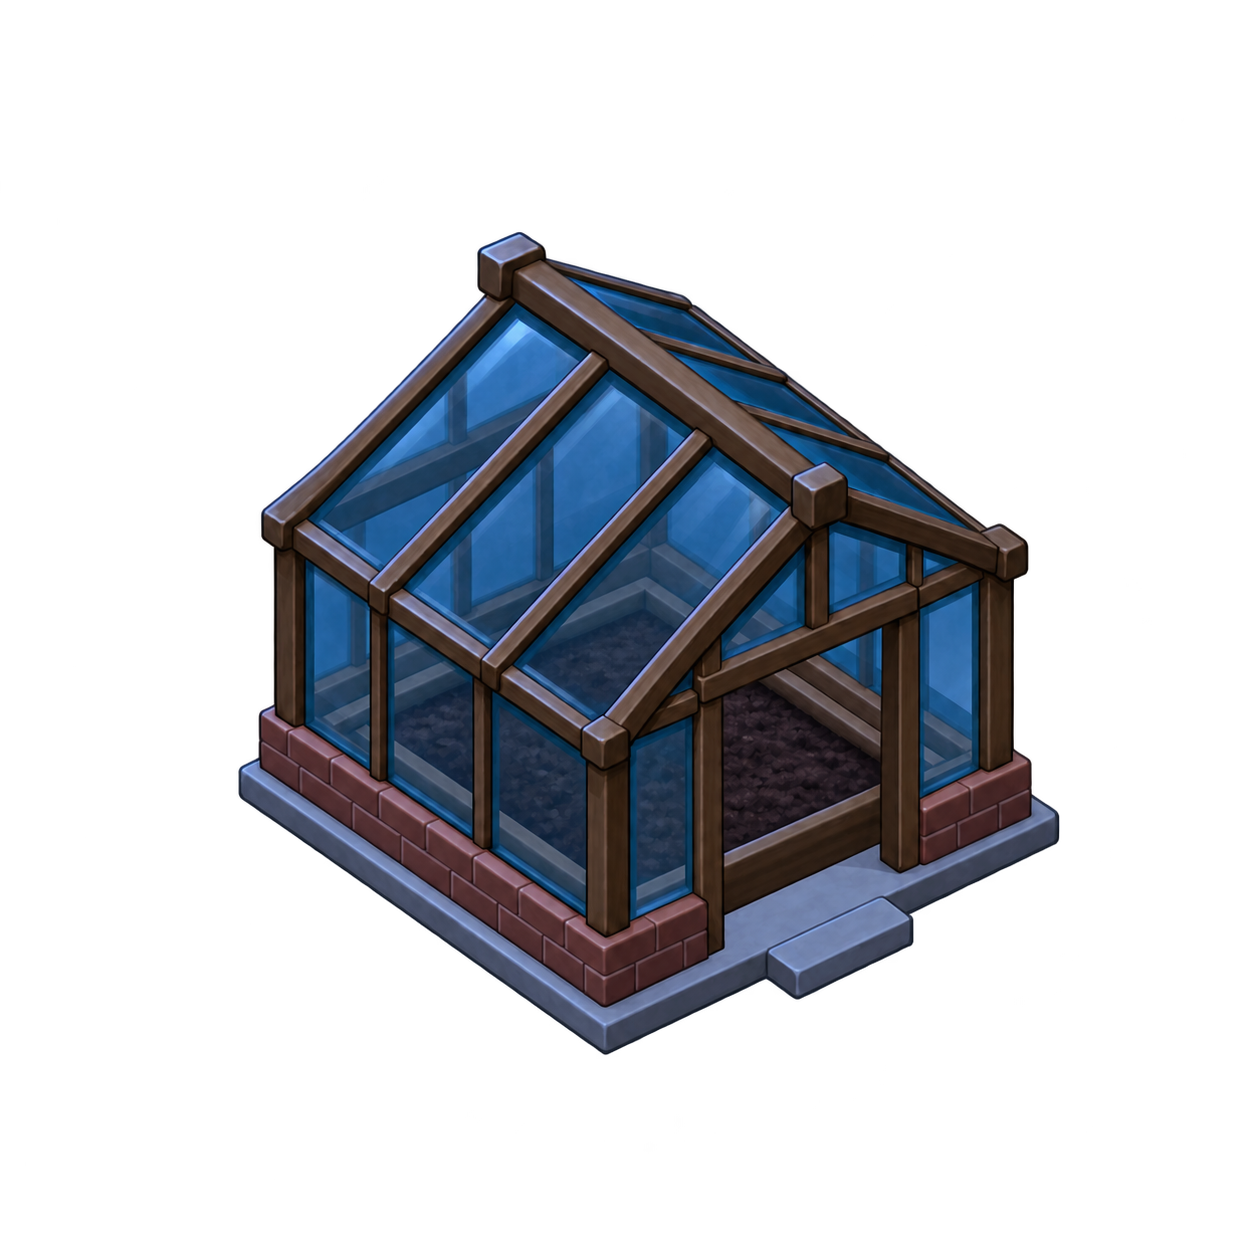
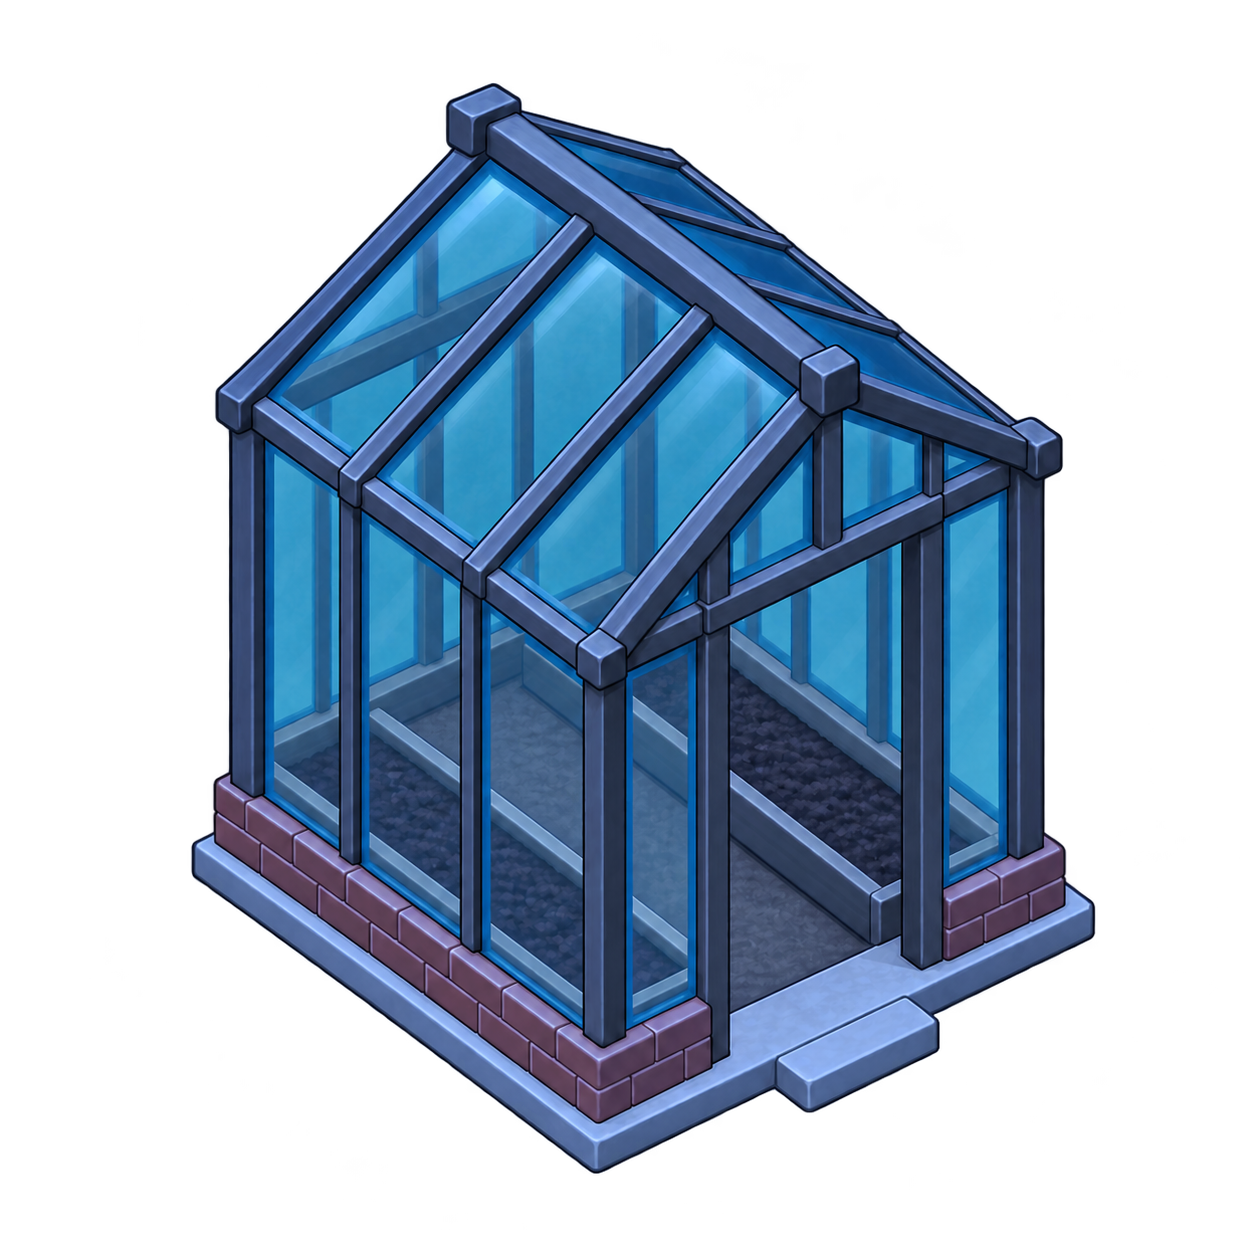
Raise greenhouse walls and plant across the interior beds
Why: the greenhouse looked too squat and crops were clipped into its doorway. Taller matched day/night artwork and glass-aware crop rows keep the aisle clear and plants behind the frame.

diff --git a/web/crop-art.js b/web/crop-art.js
@@ -1,3 +1,4 @@
+import { greenhouseBeds, greenhousePlants, greenhouseGlass, greenhouseDoor } from './greenhouse-layout.js';
 import { preparedFrames, drawPreparedFrame } from './sprite-frames.js';
 import { buildingArt, cameraCalibration } from './building-art.js?v=night-1';
 export const cropTypes = {
@@ -23,18 +24,28 @@ export function drawCrops(ctx,b,x,y,scale=1,night=0) {
   const {vertical,shear}=cameraCalibration(art),c=b.crop;
   const point=(u,v)=>[(u-.5)*w,((v-art.anchor)*vertical+(u-.5)*shear)*w];
   ctx.save();ctx.translate(x,y);ctx.scale(scale,scale);
-  ctx.beginPath();
-  // For the greenhouse, only the open doorway exposes the growing bed.
-  const soil=greenhouse ? [[.518,.58],[.674,.50],[.688,.659],[.518,.749]] : [[.155,.52],[.495,.325],[.837,.52],[.495,.711]];
-  soil.forEach(([u,v],i)=>{const p=point(u,v);if(i)ctx.lineTo(...p);else ctx.moveTo(...p);});ctx.closePath();
-  ctx.fillStyle=c.moisture>0?'rgba(55,32,20,.17)':'rgba(204,163,102,.28)';ctx.fill();
-  if(greenhouse)ctx.clip();
-  if(c.planted){
+  const path=polygons=>{
+    ctx.beginPath();
+    for(const polygon of polygons){polygon.forEach(([u,v],i)=>{const p=point(u,v);if(i)ctx.lineTo(...p);else ctx.moveTo(...p);});ctx.closePath();}
+  };
+  const positions=greenhouse ? greenhousePlants :
+    Array.from({length:9},(_,i)=>{const u=i%3-1,v=Math.floor(i/3)-1;return [.495+(u-v)*.105,.52+(u+v)*.0525];});
+  const soil=greenhouse ? greenhouseBeds : [[[.155,.52],[.495,.325],[.837,.52],[.495,.711]]];
+  const paint=()=>{
+    path(soil);ctx.fillStyle=c.moisture>0?'rgba(55,32,20,.17)':'rgba(204,163,102,.28)';ctx.fill();
+    if(!c.planted)return;
     ctx.filter=`brightness(${1-night*.45}) saturate(${c.moisture>0 ? 1 : .55})${c.moisture>0 ? '' : ' sepia(.3)'}`;
-    const positions=greenhouse ? [[.564,.653],[.625,.627],[.565,.704],[.628,.675]] :
-      Array.from({length:9},(_,i)=>{const u=i%3-1,v=Math.floor(i/3)-1;return [.495+(u-v)*.105,.52+(u+v)*.0525];});
-    const width=c.kind==='lettuce'?22:26;
-    for(const [u,v] of positions){const p=point(u,v);drawPreparedFrame(ctx,cropArt,cropFrame(c),p[0],p[1],greenhouse?width*.8:width,cropFrameOptions);}
-  }
+    const width=(c.kind==='lettuce'?22:26)*(greenhouse?.85:1);
+    const ordered=positions.map(([u,v])=>point(u,v)).sort((a,b)=>a[1]-b[1]);
+    for(const p of ordered)drawPreparedFrame(ctx,cropArt,cropFrame(c),p[0],p[1],width,cropFrameOptions);
+  };
+  if(greenhouse){
+    // Glass mutes the leaves. Through the open door they keep their color.
+    // Separate clips retain timber occlusion without chopping every plant to
+    // the old doorway-sized patch or drawing soil across the walking aisle.
+    for(const [apertures,opacity] of [[greenhouseGlass,.72],[[greenhouseDoor],1]]){
+      ctx.save();path(apertures);ctx.clip();ctx.globalAlpha*=opacity;paint();ctx.restore();
+    }
+  }else paint();
   ctx.restore();
 }

diff --git a/web/artwork/checks.js b/web/artwork/checks.js
@@ -38,13 +38,13 @@ try {
     });$('sheets').append(section);
   }
   for(const night of [false,true])for(const kind of ['garden','greenhouse'])for(const crop of ['lettuce','beans','tomatoes'])for(const phase of ['Empty','Young','Growing','Mature','Dry']){
-    const figure=document.createElement('figure'),canvas=document.createElement('canvas');canvas.width=440;canvas.height=300;
+    const figure=document.createElement('figure'),canvas=document.createElement('canvas');canvas.width=480;canvas.height=500;
     const ctx=canvas.getContext('2d');ctx.scale(2,2);
     const c={kind:crop,growth:cropTypes[crop].minutes*(phase==='Young'?.15:phase==='Growing'?.6:1),moisture:phase==='Dry'?0:100,planted:phase!=='Empty',harvests:0};
-    if(night){ctx.fillStyle='#263c4b';ctx.fillRect(0,0,220,150);}
+    if(night){ctx.fillStyle='#263c4b';ctx.fillRect(0,0,240,250);}
     const file=buildingArt[kind].file.replace('.png',night?'-night.png':'.png');
-    drawBuildingArt(ctx,images.get(`../art/${file}`),buildingArt[kind],110,95,1.5);
-    drawCrops(ctx,{kind,crop:c},110,95,1.5,Number(night));figure.append(canvas);
+    drawBuildingArt(ctx,images.get(`../art/${file}`),buildingArt[kind],120,180,1.5);
+    drawCrops(ctx,{kind,crop:c},120,180,1.5,Number(night));figure.append(canvas);
     const caption=document.createElement('figcaption');caption.textContent=`${kind} · ${crop} · ${phase} · ${night?'night':'day'}`;figure.append(caption);$('crops').append(figure);
   }
   const failures=results.filter(r=>!r.passed);$('status').textContent=`${results.length} entries · ${results.reduce((n,r)=>n+r.frames,0)} cells · ${failures.length} failures. Pixel checks verify separation, gutters and ground registration; inspect style and motion visually.`;

diff --git a/web/greenhouse-layout.js b/web/greenhouse-layout.js
@@ -1,0 +1,22 @@
+// Registered to the taller greenhouse's 1280-pixel reference canvas.
+// Crops span two side beds; the middle third stays a walking aisle.
+const fraction = points => points.map(([x,y]) => [x / 1280, y / 1280]);
+const backLeft = [280,771], across = [359,-174], along = [320,225];
+const floor = (u,v) => [(backLeft[0]+across[0]*u+along[0]*v)/1280,
+  (backLeft[1]+across[1]*u+along[1]*v)/1280];
+export const greenhouseBeds = [[.05,.30],[.70,.95]].map(([a,b]) =>
+  [floor(a,.04),floor(b,.04),floor(b,.94),floor(a,.94)]);
+export const greenhousePlants = [.18,.82].flatMap(u => [.12,.36,.60,.84].map(v => floor(u,v)));
+// Glass-only apertures leave the original painted posts, roof bars, raised-bed
+// edges and foundation in front of the crops. The doorway has its own pass.
+export const greenhouseGlass = [
+  [[269,452],[335,493],[335,827],[269,777]],
+  [[366,508],[459,574],[459,916],[366,850]],
+  [[490,596],[580,664],[580,1001],[490,937]],
+  [[632,682],[688,655],[688,987],[632,1011]],
+  [[946,544],[1005,516],[1005,825],[947,854]],
+  [[280,390],[486,174],[560,225],[340,460]],
+  [[370,477],[590,246],[677,313],[461,551]],
+  [[494,573],[704,339],[795,408],[585,631]],
+].map(fraction);
+export const greenhouseDoor = fraction([[735,648],[892,573],[892,942],[735,1014]]);

diff --git a/web/building-projection.js b/web/building-projection.js
@@ -9,7 +9,7 @@ export const buildingProjection = {
   home: { size:640, right:[[75,440,289,542],[182,326,222,348]], left:[[289,542,527,422],[161,237,358,135]], upright:[283,382,283,522] },
   kitchen: { size:640, right:[[64,429,329,572],[181,411,311,481]], left:[[329,572,541,452],[493,290,370,360]], upright:[358,381,358,536] },
   garden: { size:1280, right:[[178,659,627,906],[636,416,1080,654]], left:[[178,643,623,403],[639,905,1084,668]], upright:[627,912,627,939] },
-  greenhouse: { size:1280, right:[[241,770,604,1025],[299,542,584,729]], left:[[605,1025,1056,813],[725,669,978,570]], upright:[603,770,603,925] },
+  greenhouse: { size:1280, right:[[211,843,592,1132],[269,428,588,653]], left:[[595,1135,1059,909],[733,615,1005,481]], upright:[607,704,607,1033] },
   well: { size:1280, right:[[337,950,505,1040],[218,944,475,1086]], left:[[785,1001,1026,869],[790,1091,1040,953]], upright:[961,343,961,684] },
   compost: { size:1280, right:[[550,307,747,415],[538,657,735,773]], left:[[247,441,484,299],[540,598,754,464]], upright:[781,805,781,1075] },
   square: { size:1280, right:[[625,160,1090,411],[199,383,699,605]], left:[[199,383,625,160],[699,605,1090,411]], upright:[1092,478,1092,817] },

diff --git a/web/building-art.js b/web/building-art.js
@@ -13,7 +13,7 @@ export const buildingArt = {
   kitchen: { name: 'Kitchen', file: atlas, cell: [.5, 0, .5, .5], width: 179.36, anchor: .70 },
   grove: { name: 'Banana grove', file: atlas, cell: [.5, .5, .5, .5], width: 123.9, anchor: .74 },
   garden: { name: 'Garden', file: 'garden-simple-isometric.png', width: 140.42, anchor: .52 },
-  greenhouse: { name: 'Greenhouse', file: 'greenhouse-isometric.png', width: 188, anchor: .66 },
+  greenhouse: { name: 'Greenhouse', file: 'greenhouse-isometric.png', width: 174, anchor: .76 },
   well: { name: 'Cistern', file: 'cistern-isometric.png', width: 77, anchor: .82 },
   compost: { name: 'Compost station', file: 'compost-isometric.png', width: 78, anchor: .75 },
   square: { name: 'Community square', file: 'square-isometric.png', width: 172, anchor: .73 },

diff --git a/assets/art-direction/artwork-consistency.md b/assets/art-direction/artwork-consistency.md
@@ -20,7 +20,7 @@ The library contains 69 entries backed by 46 source images: 68 active entries an
 | Home · veranda | 158 px |
 | Home · gable | 164 px |
 | Home · entry terrace | 156 px |
-| Greenhouse | 188 px |
+| Greenhouse | 174 px |
 | Community square | 172 px |
 | Workshop | 158 px |
 | Garden | 140.42 px |
@@ -37,7 +37,7 @@ Homes cycle through the original, veranda, gable and entry-terrace artwork in co
 
 Residents use 48 px prepared cells, with a ground anchor of 0.95. Complete connected poses are isolated from the original sheets at load time, aligned by lower-body pivots and normalized with one scale per sheet. This preserves the shorter seated and kneeling poses without clipping adjacent artwork. Hens use 20 px cells and their pose-specific ground anchors. Crop layers use 22 px cells for lettuce and 26 px for beans and tomatoes, with one shared atlas scale so growth stages keep their relative sizes.
 
-Gardens and greenhouses use painted empty structures plus separate crop layers. Empty, young, growing, mature and dry states follow simulation data, including repeat tomato harvests. The [live artwork checks](../../web/artwork/checks.html) render all 60 crop/structure/light combinations and every resident frame.
+Gardens and greenhouses use painted empty structures plus separate crop layers. The taller greenhouse has two rows of four plants along its side beds and a clear central aisle. Registered glass and doorway apertures keep plants behind the painted frame; glass softens their color. [greenhouse-layout.js](../../web/greenhouse-layout.js) shares that layout between the game and crop previews. The wall-height revision and night pair were generated with the built-in image tool; exact prompts are in [greenhouse-height-prompts.json](greenhouse-height-prompts.json). Empty, young, growing, mature and dry states follow simulation data, including repeat tomato harvests. The [live artwork checks](../../web/artwork/checks.html) render all 60 crop/structure/light combinations and every resident frame.
 
 ## Camera calibration
 
@@ -45,7 +45,7 @@ The map uses a 2:1 orthographic game projection, with ground axes at slopes +0.5
 
 The pergola needs more than a camera adjustment: its original front post is displaced, and its four posts have different painted heights. [building-mesh.js](../../web/building-mesh.js) maps the existing texture onto a constrained rectangular prism. All four registered top beams follow exact 2:1 directions and the four registered posts are vertical and equal in height. Structural edges are triangle boundaries so they stay straight during interpolation. Day and night use the same geometry and separate cached textures; the correction is prepared once per loaded image, not every animation frame. The original PNGs retain their painted materials and props.
 
-Open [Building projection](../../web/artwork/projection.html), linked from the artwork studio and live checks, for all 15 variants. Toggle day/night, uncorrected source/game projection, and measured-edge overlays. Teal guides show the target directions; orange dashes show traced painted edges. The review covers 30 day/night views. Traced-edge residuals are at most 1.96 pixels at zoom 1; roof tiles, irregular timber, furniture details and foliage remain illustrations rather than exact architectural geometry. This tolerance is explicit: it is not a claim that every painted pixel is perfectly orthogonal.
+Open [Building projection](../../web/artwork/projection.html), linked from the artwork studio and live checks, for all 15 variants. Toggle day/night, uncorrected source/game projection, and measured-edge overlays. Teal guides show the target directions; orange dashes show traced painted edges. The review covers 30 day/night views. Traced-edge residuals are at most 1.23 pixels at zoom 1; roof tiles, irregular timber, furniture details and foliage remain illustrations rather than exact architectural geometry. This tolerance is explicit: it is not a claim that every painted pixel is perfectly orthogonal.
 
 Run `node scripts/verify-building-projection.mjs` for measured-edge tolerances, verticals, exact pergola beam slopes and post heights, triangle coverage without folds, and the actual cached Canvas drawing transforms. [building-projection-review.json](building-projection-review.json) pins all 26 reviewed source-file hashes; replacing a PNG requires re-tracing and visual review before updating its hash. Run `node scripts/verify-artwork.mjs` for catalog coverage, day/night geometry parity, transparency and relative-size bounds.
 
